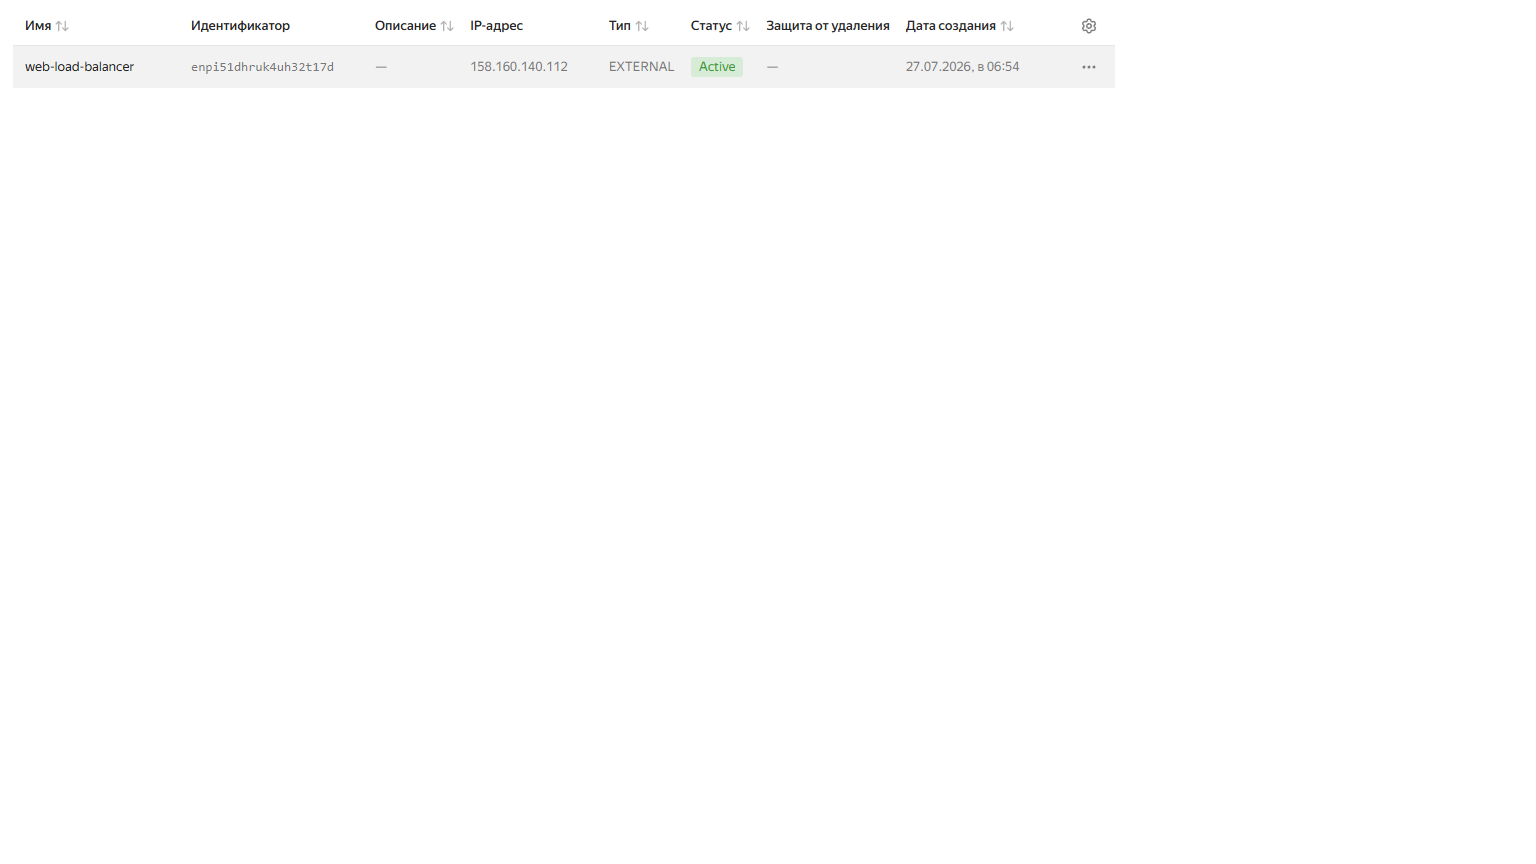
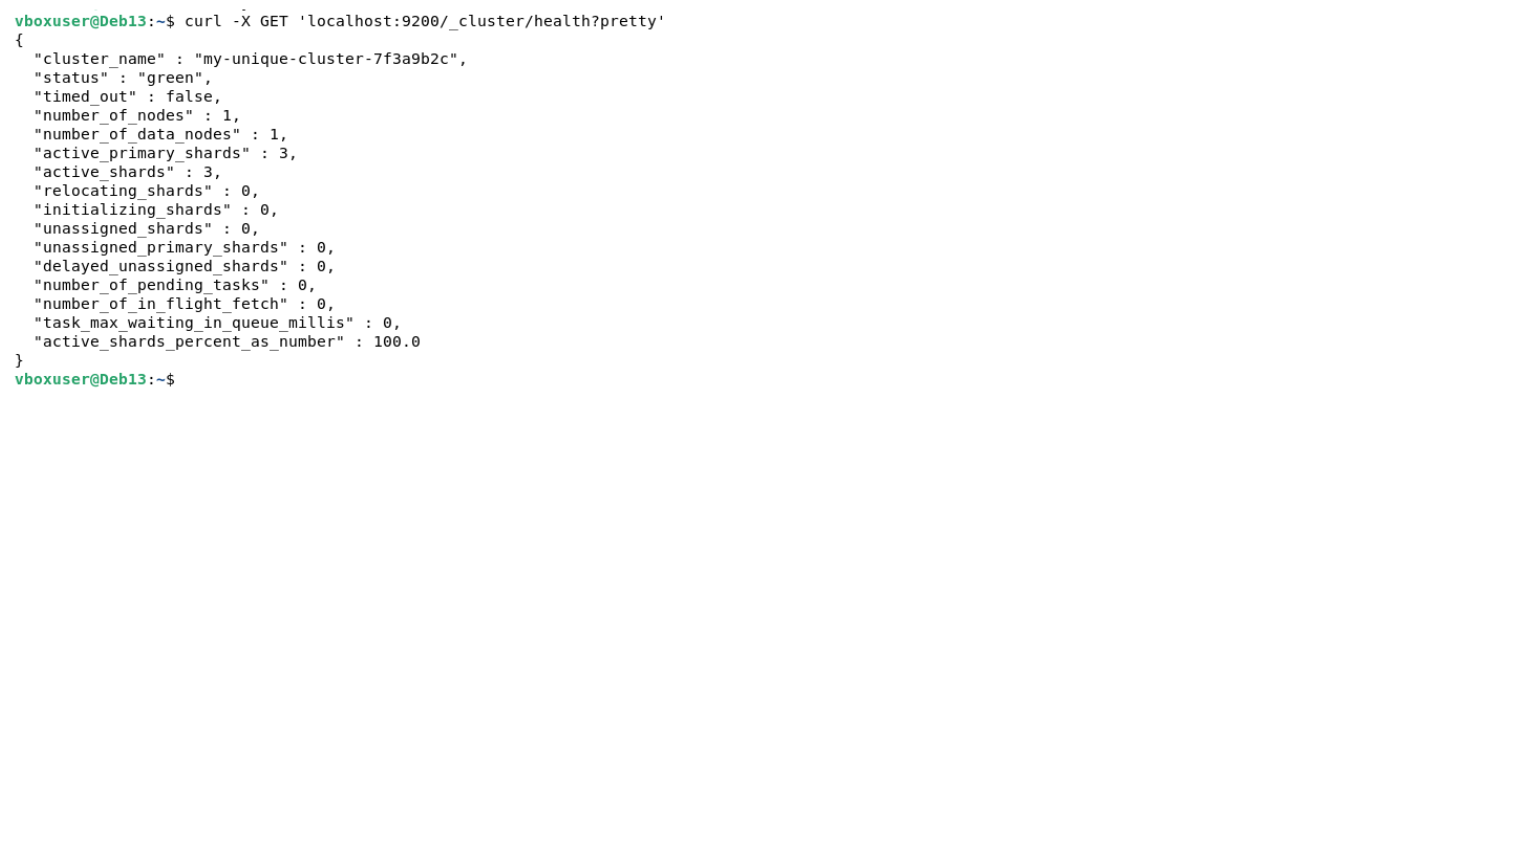
new

diff --git a/README.md b/README.md
@@ -1,33 +1,40 @@
-# Домашнее задание к занятию "`Домашнее задание к занятию «Отказоустойчивость в облаке»`" - `Шаталов Леонид Юрьевич`
+# Домашнее задание к занятию "`ELK`" - `Шаталов Леонид Юрьевич`
 
-## Задание 1
-Возьмите за основу решение к заданию 1 из занятия «Подъём инфраструктуры в Яндекс Облаке».
+## Задание 1. Elasticsearch
 
-Теперь вместо одной виртуальной машины сделайте terraform playbook, который:
-создаст 2 идентичные виртуальные машины. Используйте аргумент count для создания таких ресурсов;
-создаст таргет-группу. Поместите в неё созданные на шаге 1 виртуальные машины;
-создаст сетевой балансировщик нагрузки, который слушает на порту 80, отправляет трафик на порт 80 виртуальных машин и http healthcheck на порт 80 виртуальных машин.
-Рекомендуем изучить документацию сетевого балансировщика нагрузки для того, чтобы было понятно, что вы сделали.
+Задание 1. Elasticsearch
+Установите и запустите Elasticsearch, после чего поменяйте параметр cluster_name на случайный.
 
-Установите на созданные виртуальные машины пакет Nginx любым удобным способом и запустите Nginx веб-сервер на порту 80.
+Приведите скриншот команды 'curl -X GET 'localhost:9200/_cluster/health?pretty', сделанной на сервере с установленным Elasticsearch. Где будет виден нестандартный cluster_name.
 
-Перейдите в веб-консоль Yandex Cloud и убедитесь, что:
+![Скриншот](https://github.com/FairDog/sdb-homeworks-11-03/blob/main/img/1.png)
 
-созданный балансировщик находится в статусе Active,
-обе виртуальные машины в целевой группе находятся в состоянии healthy.
-Сделайте запрос на 80 порт на внешний IP-адрес балансировщика и убедитесь, что вы получаете ответ в виде дефолтной страницы Nginx.
-В качестве результата пришлите:
 
-1. Terraform Playbook.
+## Задание 2. Kibana
 
-2. Скриншот статуса балансировщика и целевой группы.
+Задание 2. Kibana
+Установите и запустите Kibana.
 
-3. Скриншот страницы, которая открылась при запросе IP-адреса балансировщика.
+Приведите скриншот интерфейса Kibana на странице http://<ip вашего сервера>:5601/app/dev_tools#/console, где будет выполнен запрос GET /_cluster/health?pretty.
 
-[main](main.tf)
 
-![Скриншот](https://github.com/FairDog/sflt-homeworks-4/blob/main/img/1.png)
+![Скриншот](https://github.com/FairDog/sdb-homeworks-11-03/blob/main/img/2.png)
 
-![Скриншот](https://github.com/FairDog/sflt-homeworks-4/blob/main/img/2.png)
 
-![Скриншот](https://github.com/FairDog/sflt-homeworks-4/blob/main/img/3.png)
+## Задание 3. Logstash
+
+Установите и запустите Logstash и Nginx. С помощью Logstash отправьте access-лог Nginx в Elasticsearch.
+
+Приведите скриншот интерфейса Kibana, на котором видны логи Nginx.
+
+
+![Скриншот](https://github.com/FairDog/sdb-homeworks-11-03/blob/main/img/3.png)
+
+
+## Задание 4. Filebeat.
+
+Установите и запустите Filebeat. Переключите поставку логов Nginx с Logstash на Filebeat.
+
+Приведите скриншот интерфейса Kibana, на котором видны логи Nginx, которые были отправлены через Filebeat.
+
+![Скриншот](https://github.com/FairDog/sdb-homeworks-11-03/blob/main/img/4.png)
